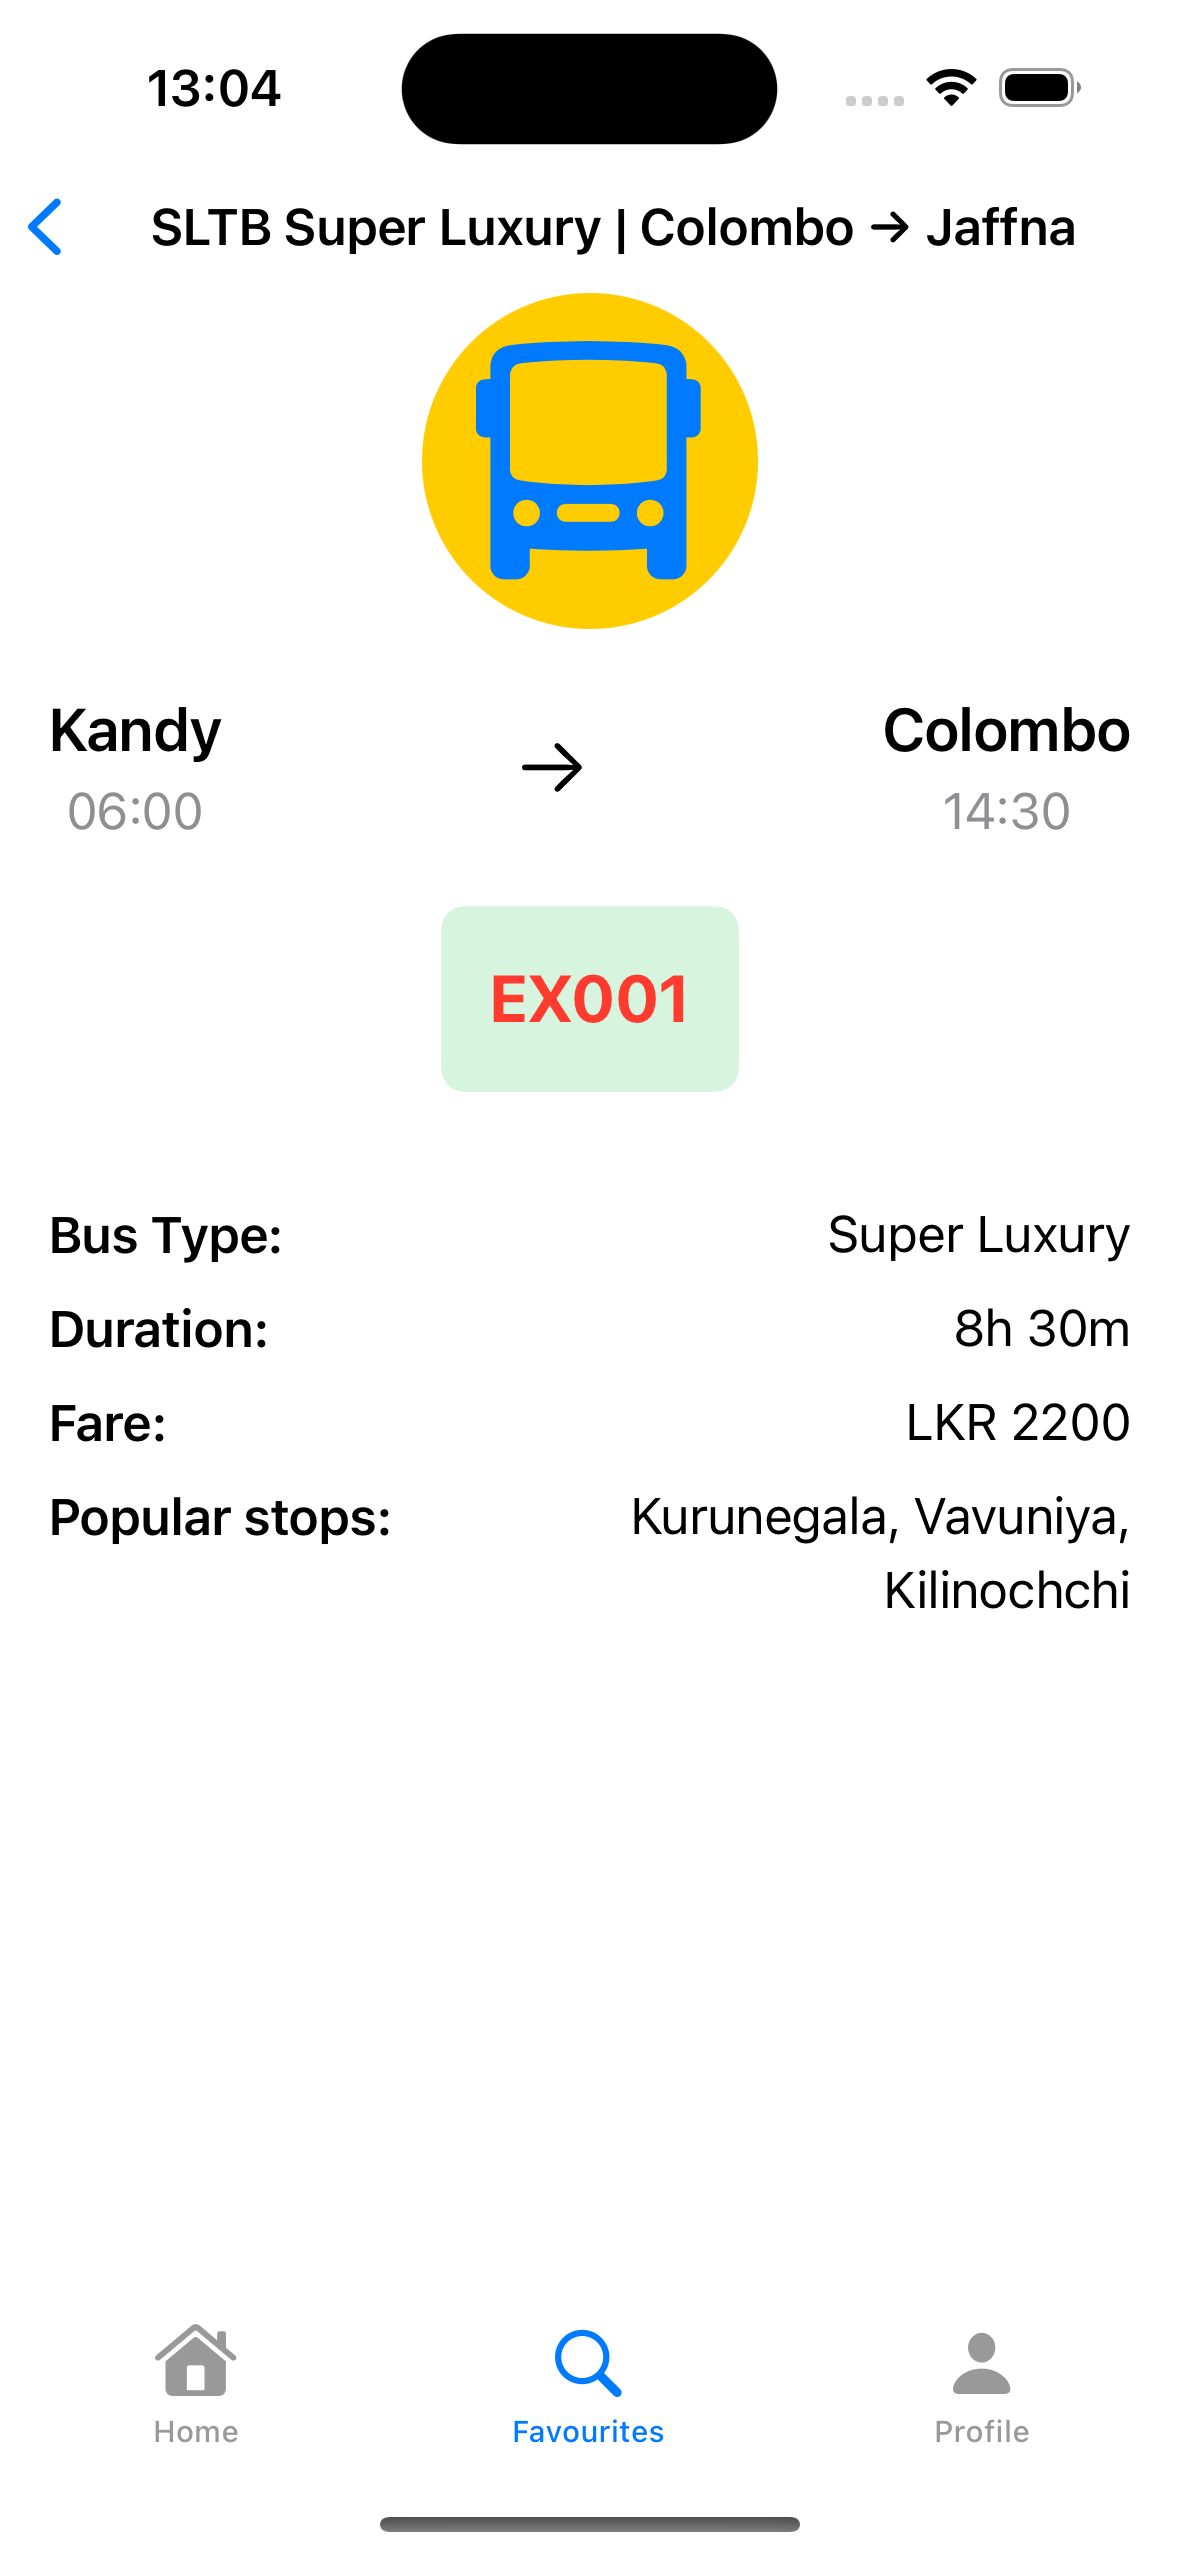
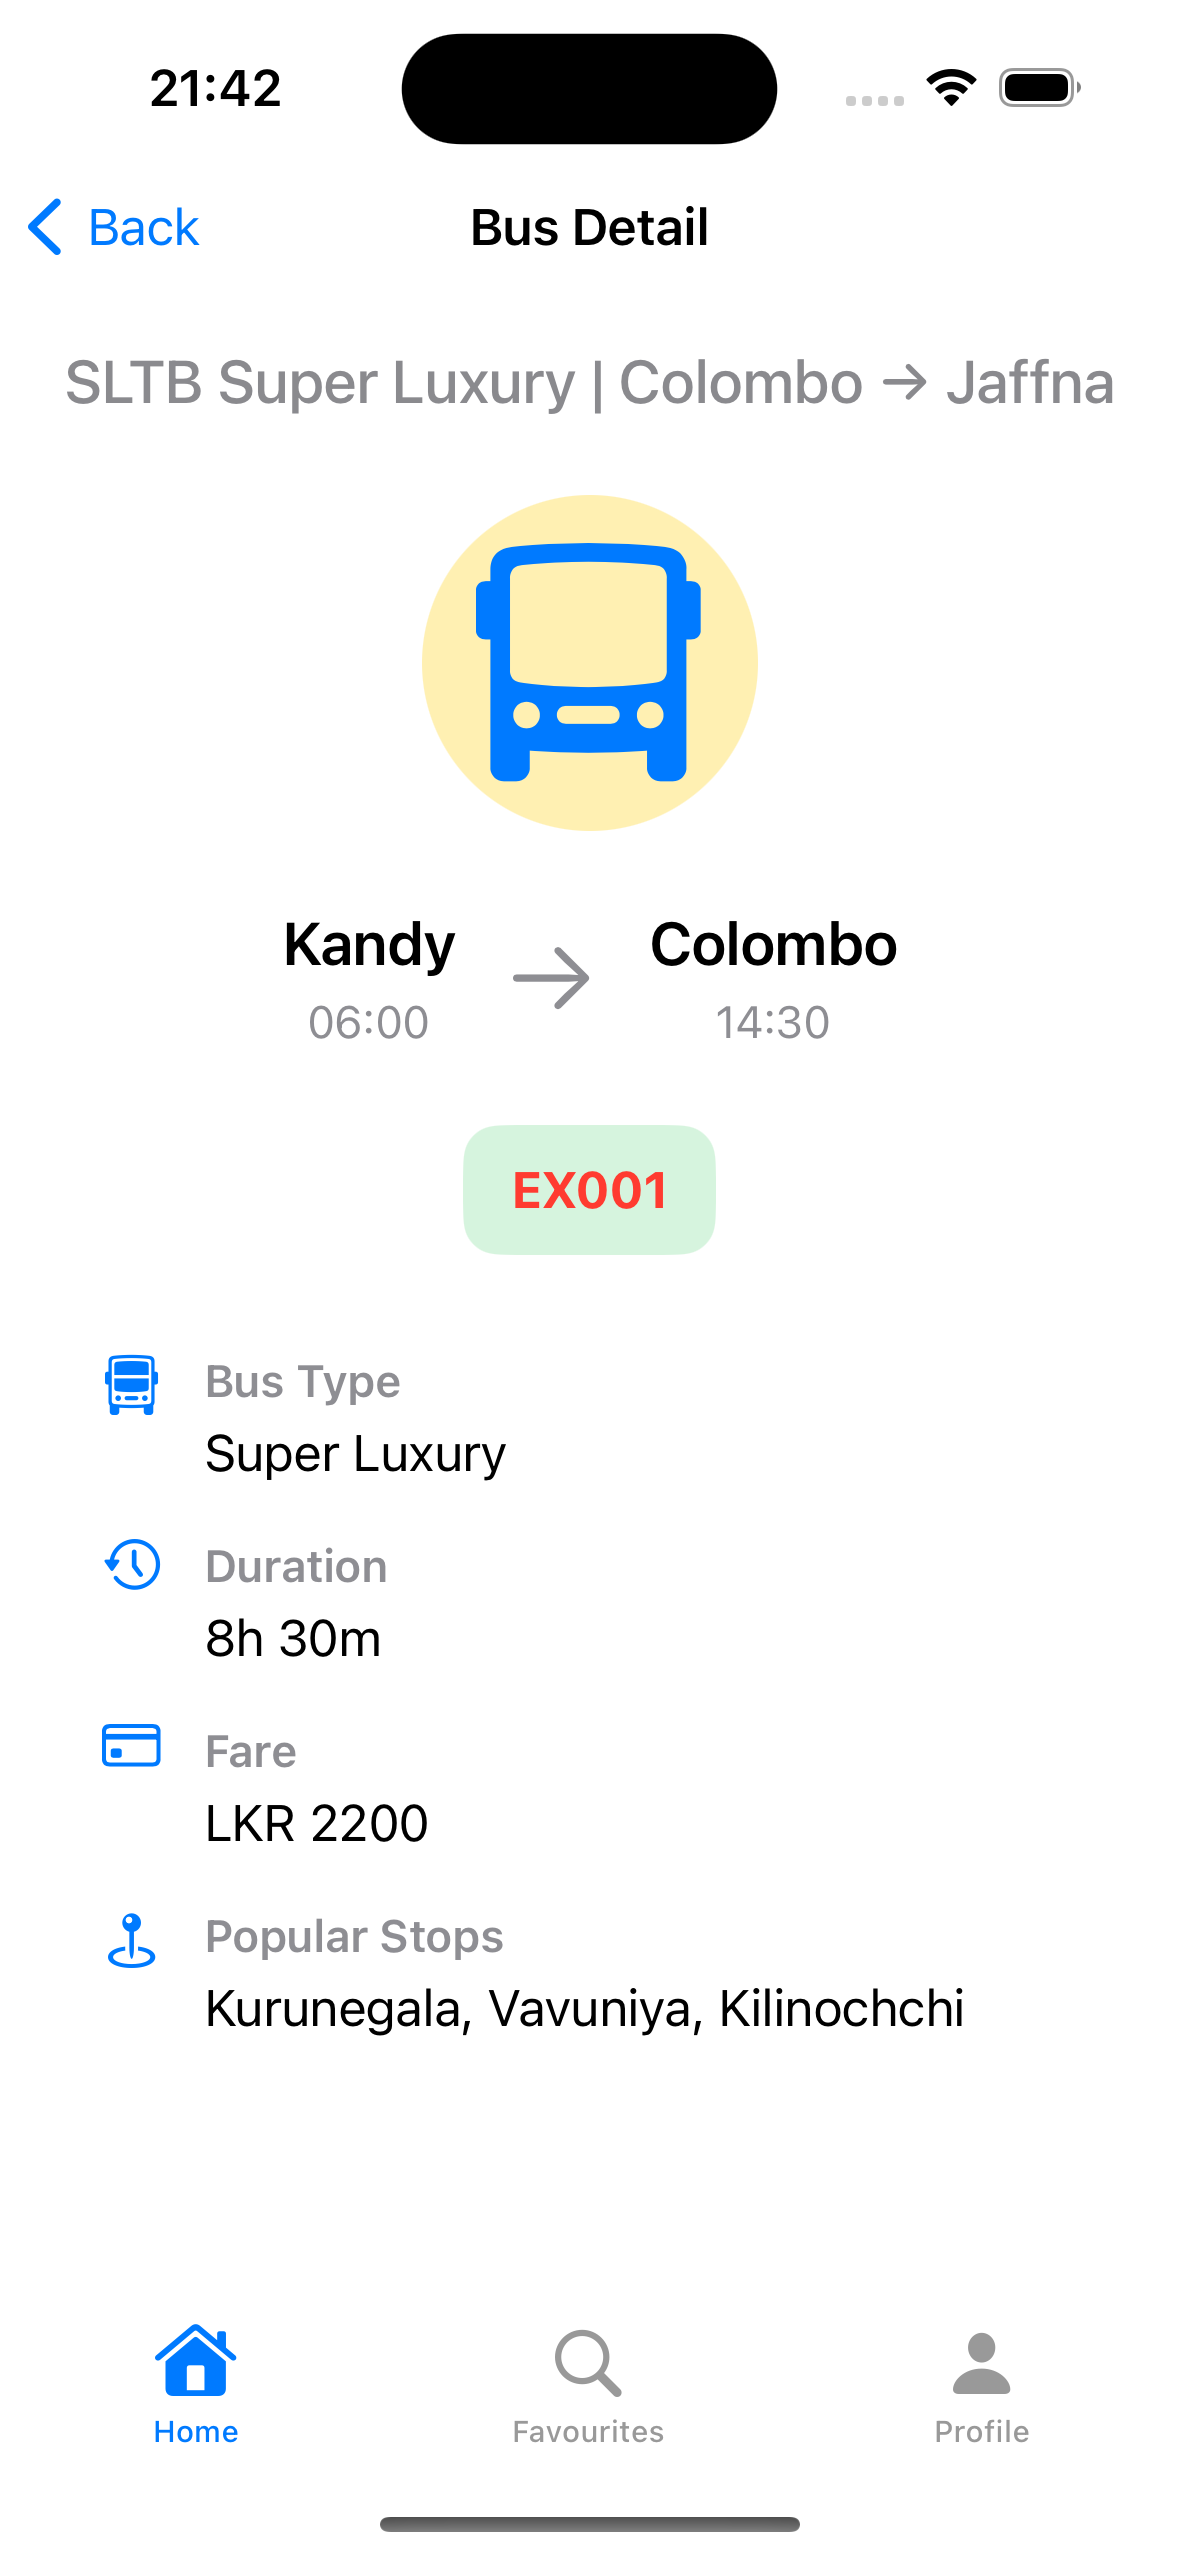
updated HomeView UI

diff --git a/LankaBusRideSwiftUI/Detail/Views/DetailView.swift b/LankaBusRideSwiftUI/Detail/Views/DetailView.swift
@@ -12,66 +12,66 @@ struct DetailView: View {
     let busID: Int
     
     var body: some View {
-        VStack(spacing: 20) {
-            Image(systemName: "bus.fill")
-                .resizable()
-                .aspectRatio(contentMode: .fit)
-                .frame(width: 80, height: 80)
-                .padding()
-                .background(Circle().fill(Color.yellow))
-                .foregroundColor(.blue)
-            
-            HStack {
-                VStack {
-                    Text("Kandy")
+        ScrollView {
+            VStack(spacing: 24) {
+                
+                // Title Section
+                VStack(spacing: 4) {
+                    Text(viewModel.title)
                         .font(.title3)
-                        .bold()
-                    Text(viewModel.busDetail?.departure ?? "")
-                        .foregroundColor(.gray)
+                        .fontWeight(.medium)
+                        .multilineTextAlignment(.center)
+                        .foregroundColor(.secondary)
                 }
                 
-                Spacer()
+                // Bus Icon
+                Image(systemName: "bus.fill")
+                    .resizable()
+                    .scaledToFit()
+                    .frame(width: 80, height: 80)
+                    .padding()
+                    .background(Circle().fill(Color.yellow.opacity(0.3)))
+                    .foregroundColor(.blue)
                 
-                Image(systemName: "arrow.right")
-                    .font(.title2)
-                
-                Spacer()
-                
-                VStack {
-                    Text("Colombo")
-                        .font(.title3)
-                        .bold()
-                    Text(viewModel.busDetail?.arrival ?? "")
+                // Route Section
+                HStack(alignment: .center, spacing: 16) {
+                    RouteStopView(city: "Kandy", time: viewModel.busDetail?.departure ?? "")
+                    
+                    Image(systemName: "arrow.right")
+                        .font(.title)
                         .foregroundColor(.gray)
+                    
+                    RouteStopView(city: "Colombo", time: viewModel.busDetail?.arrival ?? "")
                 }
+                .padding(.horizontal)
+                
+                // Route Number
+                Text(viewModel.busDetail?.routeNumber ?? "N/A")
+                    .font(.headline)
+                    .fontWeight(.bold)
+                    .padding(.horizontal, 16)
+                    .padding(.vertical, 10)
+                    .background(Color.green.opacity(0.2))
+                    .foregroundColor(.red)
+                    .clipShape(RoundedRectangle(cornerRadius: 12, style: .continuous))
+                
+                // Info Grid
+                VStack(spacing: 16) {
+                    InfoRow(icon: "bus.doubledecker", label: "Bus Type", value: viewModel.busType)
+                    InfoRow(icon: "clock.arrow.circlepath", label: "Duration", value: viewModel.duration)
+                    InfoRow(icon: "creditcard", label: "Fare", value: viewModel.fareText)
+                    InfoRow(icon: "mappin.and.ellipse", label: "Popular Stops", value: viewModel.popularStops)
+                }
+                .padding(.horizontal)
+                .padding(.top, 8)
             }
-            .padding(.horizontal)
-            
-            Text(viewModel.busDetail?.routeNumber ?? "")
-                .font(.title2)
-                .bold()
-                .foregroundColor(.red)
-                .padding()
-                .background(Color.green.opacity(0.2))
-                .cornerRadius(8)
-            
-            
-            infoArray
-            Spacer()
-        }.onAppear {
-            viewModel.loadBusDetail(id: busID) {
-            }
-        }.navigationTitle(viewModel.title )
-    }
-    
-    private var infoArray: some View {
-        VStack(alignment: .leading, spacing: 8) {
-            InfoRow(label: "Bus Type:", value: viewModel.busType)
-            InfoRow(label: "Duration:", value: viewModel.duration)
-            InfoRow(label: "Fare:", value: viewModel.fareText)
-            InfoRow(label: "Popular stops:", value: viewModel.popularStops)
+            .padding()
         }
-        .padding()
+        .onAppear {
+            viewModel.loadBusDetail(id: busID) {}
+        }
+        .navigationTitle("Bus Detail")
+        .navigationBarTitleDisplayMode(.inline)
     }
 }
 

diff --git a/LankaBusRideSwiftUI/Detail/Views/CustomViews/InfoRow.swift b/LankaBusRideSwiftUI/Detail/Views/CustomViews/InfoRow.swift
@@ -8,16 +8,26 @@
 import SwiftUI
 
 struct InfoRow: View {
-    var label: String
-    var value: String
+    let icon: String
+    let label: String
+    let value: String
 
     var body: some View {
-        HStack(alignment: .top) {
-            Text(label)
-                .fontWeight(.semibold)
+        HStack(alignment: .top, spacing: 12) {
+            Image(systemName: icon)
+                .frame(width: 24)
+                .foregroundColor(.blue)
+
+            VStack(alignment: .leading) {
+                Text(label)
+                    .font(.subheadline)
+                    .fontWeight(.semibold)
+                    .foregroundColor(.gray)
+
+                Text(value)
+                    .font(.body)
+            }
             Spacer()
-            Text(value)
-                .multilineTextAlignment(.trailing)
         }
     }
 }

diff --git a/LankaBusRideSwiftUI/Detail/Views/CustomViews/RouteStopView.swift b/LankaBusRideSwiftUI/Detail/Views/CustomViews/RouteStopView.swift
@@ -1,0 +1,28 @@
+//
+//  RouteStopView.swift
+//  LankaBusRideSwiftUI
+//
+//  Created by ranCreation on 2025-05-17.
+//
+
+import SwiftUI
+
+struct RouteStopView: View {
+    let city: String
+    let time: String
+
+    var body: some View {
+        VStack {
+            Text(city)
+                .font(.title3)
+                .fontWeight(.semibold)
+            Text(time)
+                .font(.subheadline)
+                .foregroundColor(.gray)
+        }
+    }
+}
+
+#Preview {
+    RouteStopView(city: "csd", time: "08:00")
+}
